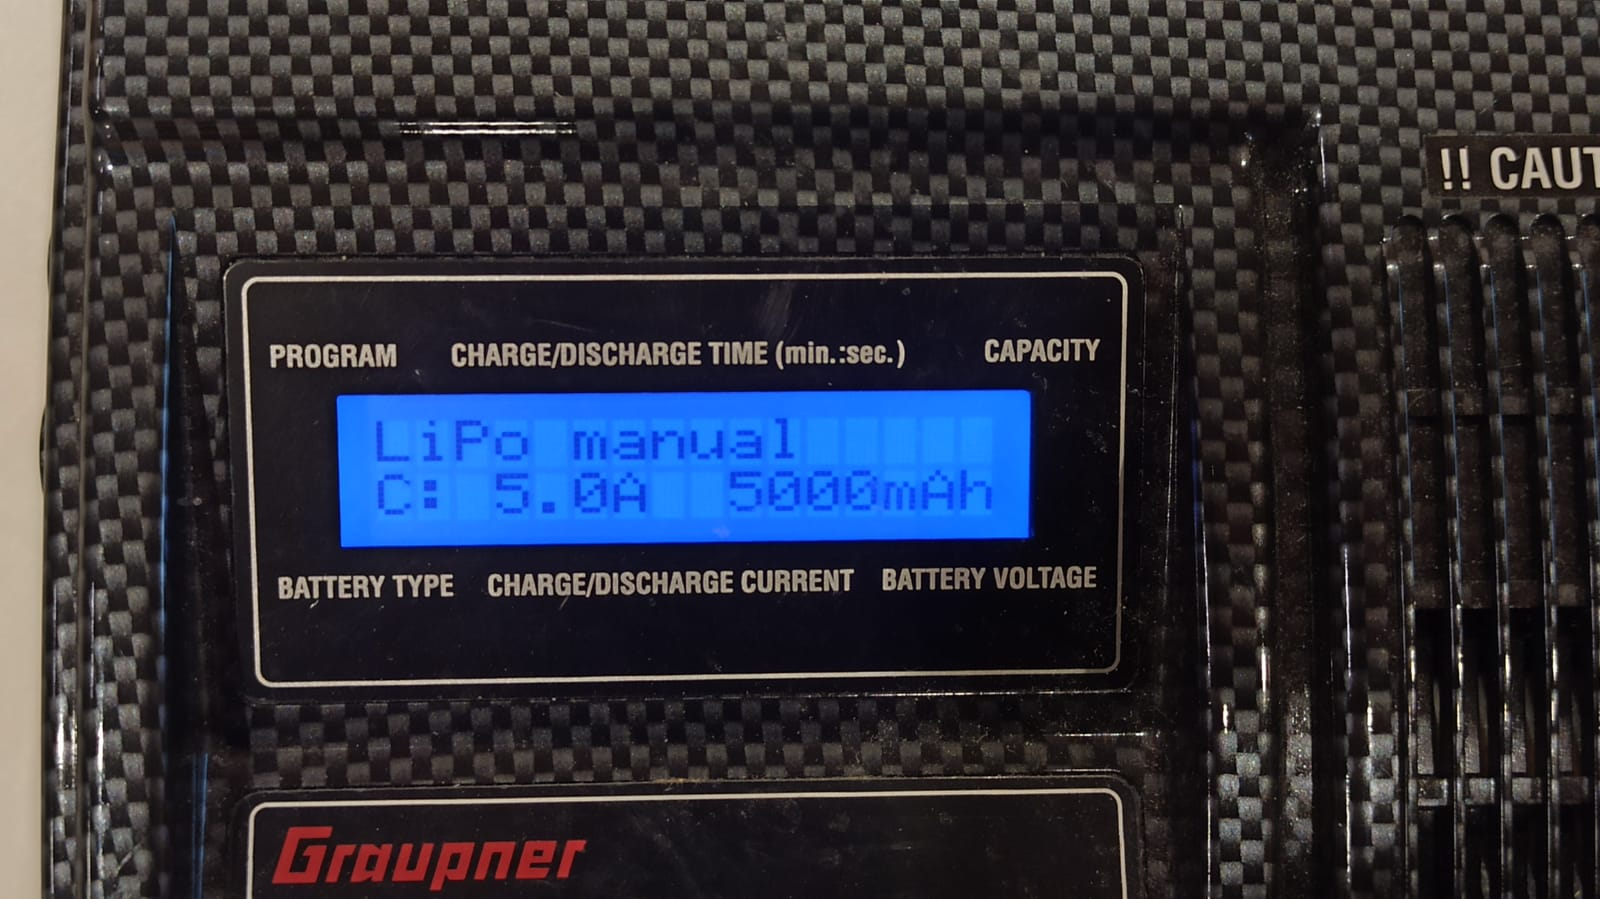
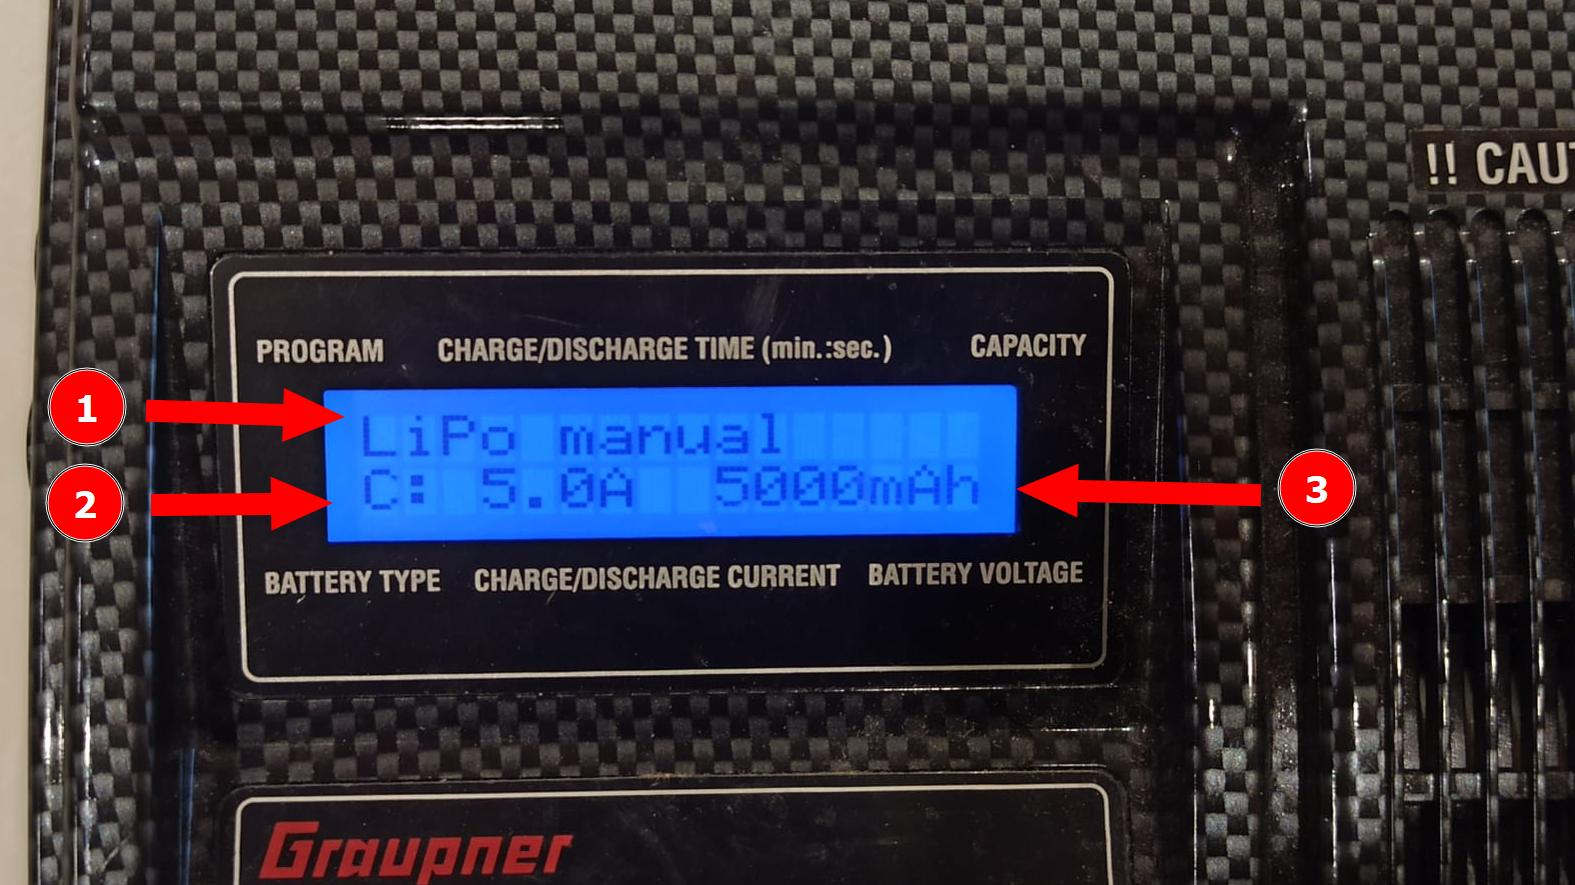
update docs on battery charging

Changed region(s): [[0.0, 0.0, 1.0, 1.0], [0.7778, 0.4271, 0.8089, 0.4576], [0.7467, 0.3966, 0.7778, 0.4271]]

diff --git a/common-operational-manual/charge-batteries.md b/common-operational-manual/charge-batteries.md
@@ -11,7 +11,9 @@ Make sure to read the manual of the charger that are planning to use, see the ta
 
 ## Materials
 
-![charging items](/assets/charging-batteries/items.jpeg)
+| ![charging items](/assets/charging-batteries/items.jpeg)                                                                                                                |
+|-------------------------------------------------------------------------------------------------------------------------------------------------------------------------|
+| The purpose of this image is to illustrate the example in this documentation. The components may vary in shape and size depending on which drone/charger you are using. |
 
 In this example:
 1. Charger: Graupner Ultramat 18
@@ -37,4 +39,58 @@ Does the battery appear to be in good condition with no physical damage (includi
 
 3. Using a battery tester/checker (in our example the Smart Guard 2) performs an electrical inspection of the current state of charge of the battery. This is important to ensure that the battery is not over charged or over discharged.
 
+| ![charging pre-check](/assets/charging-batteries/battery-precheck.jpeg) |
+|-------------------------------------------------------------------------|
+| Use the balancer cables to check for the individual voltage cells       |
+
 Are the voltages in the recommended range for the battery type? Yes: continue. No: stop, do not charge that battery.
+
+4. Get the relavant battery charging parameters. These values depend on the battery you plan to charge take as an example the following battery:
+
+| ![LiPo 5000mAh](/assets/charging-batteries/lipo-example-5000mAh.jpeg)                                                                                                                                                                                              |
+|--------------------------------------------------------------------------------------------------------------------------------------------------------------------------------------------------------------------------------------------------------------------|
+| (1) 6S1P represents that this battery contains 6 LiPo cells in a single pack (all cells connected in series). (2) 40+/80C correspond to the **Discharging Rate** (letter C), refers to how quickly a battery can draw power. (3) 5000 mAh is the battery capacity. |
+
+To proceed with the charging of a battery you need to know:
+- Number of cells (integer unit): How many cell are in the pack. In this battery 6S.
+- **CHARGING RATE** (integer unit)!! (no the Discharging Rate) CAREFUL !!: For most commercial batteries the charging rate is 1C. ⚠ Never charge the battery with a charging rate higher than 1C.
+- Battery capacit (Milliampere-hour): 5000 mAh 
+
+5. Connect the balancer cable (1) and the main battery line (2) to the charger:
+
+![Ultramat 18 setup](/assets/charging-batteries/Ultramat-18-setup.jpeg)
+
+6. Enter the charging parameters:
+
+Battery type: In most of our drones we use LiPo (lithium polymer) batteries. But always check the type of battery chemistry.
+
+**Charging current**: This value can be very confusing as many battery chargers use the "C" symbol, which we had previously referred to as **Charge/Discharge Rate** in step four. But if you pay attention the charger uses the unit *ampere* "A" for this parameter actually referring to the **charging current** and not to the Charge/Discharge Rate. The charging current is the result of multiplying the Charging Rate with the battery capacity. For our example the charging rate most of the time is equal less than 1C times the battery capacity of 5000 mAh resulting in 5000 mA.
+
+Battery capacity: as specified on the battery label.
+
+resulting parameters for our example: 
+- (1) Battery type: LiPo.
+- (2) Charging current: 5000 mA or 5A.
+- (3) Battery capacity: 5000 mAh.
+
+![Ultramat 18 parameters](/assets/charging-batteries/Ultramat-18-pameters.jpeg)
+
+7. Start the charging, based on the charger you are using.
+
+In the Ultramat 18 charger you start charging by long pressing the START/ENTER button, after that the charger will ask for confirmation of the number of cells detected in the cell balancer. But if you are at this point it means that you followed the prerequisites and read the manual of the charger (Ultramat 18) before starting, so none of this should be new to you.
+
+![Ultramat 18 confirmation](/assets/charging-batteries/Ultramat-18-confirmation.jpeg)
+
+8. Check for charging state.
+
+![Ultramat 18 charging](/assets/charging-batteries/Ultramat-18-charging.jpeg)
+
+> [!CAUTION]
+> Never leave the battery unattended during charging, always keep an eye on it in case of problems.
+
+## Post-Charging
+
+TBA
+
+- LiPo Guard ()
+- Storage in the right cabinet
